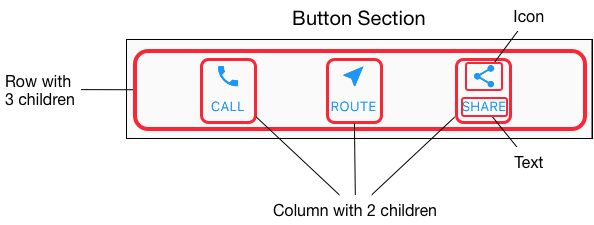
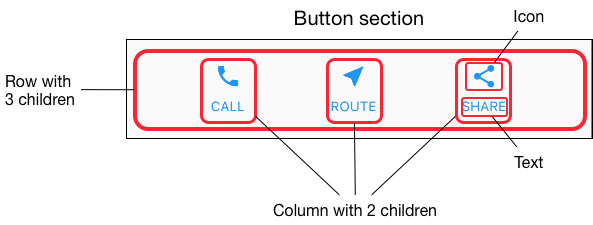
Incorporating copy edits into the tutorials. (#474)

diff --git a/tutorials/layout/index.md b/tutorials/layout/index.md
@@ -15,19 +15,15 @@ permalink: /tutorials/layout/
 
 </div>
 
-## Introduction
-
 This is a guide to building layouts in Flutter.
-You'll dive in and build the layout for the following screenshot:
+You'll build the layout for the following screenshot:
 
-<img src="images/lakes.jpg" style="border:1px solid black" alt="finished lakes app that we'll build in 'Building a Layout'">
+<img src="images/lakes.jpg" style="border:1px solid black" alt="finished lakes app that you'll build in 'Building a Layout'">
 
-We'll then take a step back to explain Flutter's approach to layout,
-and show you how to place a single widget on the screen.
-Finally, we'll discuss how to lay widgets out horizontally and vertically,
-and then cover some of the most common layout widgets.
-
-### Contents
+This guide then takes a step back to explain Flutter's approach to layout,
+and shows how to place a single widget on the screen.
+After a discussion of how to lay widgets out horizontally and vertically,
+some of the most common layout widgets are covered.
 
 * [Building a layout](#building)
   * [Step 0: Set up](#step-0)
@@ -54,38 +50,26 @@ and then cover some of the most common layout widgets.
 
 This section walks you through the layout for the following screenshot:
 
-<img src="images/lakes.jpg" style="border:1px solid black" alt="A screenshot of the lakes app that we will build in this section">
+<img src="images/lakes.jpg" style="border:1px solid black" alt="A screenshot of the lakes app that you will build in this section">
 
 If you want a "big picture" understanding of the layout mechanism,
 start with [Flutter's approach to layout](#approach).
 
-### Contents
-
-* [Step 0: Set up](#step-0)
-* [Step 1: Diagram the layout](#step-1)
-* [Step 2: Implement the title row](#step-2)
-* [Step 3: Implement the button row](#step-3)
-* [Step 4: Implement the text section](#step-4)
-* [Step 5: Implement the image section](#step-5)
-* [Step 6: Put it together](#step-6)
-
 <a name="step-0"></a>
 ### Step 0: Set up
 
-Prepare for this section as follows:
+First, get the code:
 
 * Make sure you've [set up](/setup/) your environment.
-* [Create a basic flutter
+* [Create a basic Flutter
   app](/getting-started/#creating-your-first-flutter-app).
-  You'll update the Dart code in `lib/main.dart`.
 
-Add the image to the example:
+Next, add the image to the example:
 
 * Create an `images` directory at the top of the project.
 * Add
  [`lake.jpg`](https://github.com/flutter/website/blob/master/_includes/_code/lakes/images/lake.jpg).
-  Note that `wget` won't work for saving this binary file,
-  so use another approach.
+  (Note that `wget` doesn't work for saving this binary file.)
 * Update the
   [`pubspec.yaml`](https://raw.githubusercontent.com/flutter/website/master/_includes/_code/lakes/pubspec.yaml)
   file to include an `assets` tag. This makes the image available to your code.
@@ -99,8 +83,8 @@ The first step is to break the layout down to its basic elements:
 
 * Identify the rows and columns.
 * Does the layout include a grid?
-* Overlapping elements?
-* Tabs?
+* Are there overlapping elements?
+* Does the UI need tabs?
 * Notice areas that require alignment, padding, or borders.
 
 First, identify the larger elements. In this example, four elements are
@@ -108,39 +92,40 @@ arranged into a column: an image, two rows, and a block of text.
 
 <img src="images/lakes-diagram.png" alt="diagramming the rows in the lakes screenshot">
 
-Next, diagram each row. The first row, which we call the "Title
-Section", has 3 children: 1) a column of text, 2) a star icon,
-and 3) a number. Its first child, the column, contains 2 lines of text.
+Next, diagram each row. The first row, called the Title
+section, has 3 children: a column of text, a star icon,
+and a number. Its first child, the column, contains 2 lines of text.
 That first column takes a lot of space, so it must be wrapped in an
 Expanded widget.
 
-<img src="images/title-section-diagram.png" alt="diagramming the widgets in the title section">
+<img src="images/title-section-diagram.png" alt="diagramming the widgets in the Title section">
 
-The second row, which we call the "Button Section", also has
-3 children&mdash;each child is a column that contains an icon and text.
+The second row, called the Button section, also has
+3 children: each child is a column that contains an icon and text.
 
 <img src="images/button-section-diagram.png" alt="diagramming the widgets in the button section">
 
-Once the layout has been diagrammed, it's easiest to take a bottom up
-approach to implementing it. In order to minimize the visual
+Once the layout has been diagrammed, it's easiest to take a bottom-up
+approach to implementing it. To minimize the visual
 confusion of deeply nested layout code, place some of the implementation
 in variables and functions.
 
 <a name="step-2"></a>
 ### Step 2: Implement the title row
 
-First, let's build the left column in the title section. The Column is
-placed inside an Expanded widget to stretch it to use all remaining free
+First, you'll build the left column in the title section. Putting Column
+inside an Expanded widget stretches the column to use all remaining free
 space in the row. Setting the `crossAxisAlignment` property to
 `CrossAxisAlignment.start` positions the column to the beginning of the row.
 
-The first row of text is placed inside a Container to add padding and the
-text is styled to use a bold font weight. The second child in the Column,
-also text, is painted in grey.
+Putting the first row of text inside a Container enables adding padding.
+The second child in the Column, also text, displays as grey.
 
 The last two items in the title row are a star icon, painted red,
-and the text, '41'. The entire row is placed in a Container and padded
+and the text "41". Place the entire row in a Container and pad
 along each edge with 32 pixels.
+
+Here's the code that implements the title row.
 
 <aside class="alert alert-info" markdown="1">
 **Note:**
@@ -198,7 +183,7 @@ class MyApp extends StatelessWidget {
 When pasting code into your app, indentation can
 become skewed. You can fix this in IntelliJ by right-clicking the
 Dart code and selecting **Reformat with Dart Style**.
-Reformat the code at the command line using
+Or, at the command line, you can use
 [dartfmt](https://github.com/dart-lang/dart_style).
 </aside>
 
@@ -206,8 +191,9 @@ Reformat the code at the command line using
 <i class="fa fa-lightbulb-o"> </i> **Tip:**
 For a faster development experience, try Flutter's hot reload feature.
 Hot reload allows you to modify your code and see the changes without
-fully restarting the app. The [Flutter plugin for IntelliJ](/intellij-ide/) supports
-hot reload, or you can trigger it when running apps from the command line.
+fully restarting the app. The
+[Flutter plugin for IntelliJ](/intellij-ide/) supports
+hot reload, or you can trigger from the command line.
 For more information, see [Hot Reloads vs. Full Application
 Restarts](https://flutter.io/intellij-ide/#hot-reloads-vs-full-application-restarts).
 </aside>
@@ -218,7 +204,7 @@ Restarts](https://flutter.io/intellij-ide/#hot-reloads-vs-full-application-resta
 The button section contains 3 columns that use the same layout&mdash;an
 icon over a row of text. The columns in this row are evenly spaced,
 and the text and icons are painted with the primary color,
-which was set to blue in the app's `build` method:
+which is set to blue in the app's `build()` method:
 
 <!-- _code/lakes/main.dart -->
 <!-- skip -->
@@ -239,8 +225,8 @@ class MyApp extends StatelessWidget {
 {% endprettify %}
 
 Since the code for building each row would be almost identical,
-it's most efficient to create a nested function, such as `buildButtonColumn`,
-that takes an Icon and Text, and returns a column with its widgets
+it's most efficient to create a nested function, such as `buildButtonColumn()`,
+which takes an Icon and Text, and returns a column with its widgets
 painted in the primary color.
 
 <!-- _code/lakes/main.dart -->
@@ -277,13 +263,13 @@ class MyApp extends StatelessWidget {
 }
 {% endprettify %}
 
-In the build function, the icon is added directly to the column. The
-text is placed into a Container to add padding to the top of the text,
+The build function adds the icon directly to the column. Put
+text into a Container to add padding above the text,
 separating it from the icon.
 
-The row containing these columns is built by calling the function and
+Build the row containing these columns by calling the function and
 passing the [icon](https://docs.flutter.io/flutter/material/Icons-class.html)
-and text specific to that column. The columns are aligned along the
+and text specific to that column. Align the columns along the
 main axis using `MainAxisAlignment.spaceEvenly` to arrange the free
 space evenly before, between, and after each column.
 
@@ -312,8 +298,8 @@ class MyApp extends StatelessWidget {
 <a name="step-4"></a>
 ### Step 4: Implement the text section
 
-The text section is fairly wordy, so it's also defined as a variable.
-The text is placed in a Container in order to add 32 pixels of padding on
+Define the text section, which is fairly long, as a variable.
+Put the text in a Container to enable adding 32 pixels of padding along
 each edge. The `softwrap` property indicates whether the text should break
 on soft line breaks, such as periods or commas.
 
@@ -344,7 +330,7 @@ Lake Oeschinen lies at the foot of the Blüemlisalp in the Bernese Alps. Situate
 Three of the four column elements are now complete, leaving only the image.
 This image is [available
 online](https://images.unsplash.com/photo-1471115853179-bb1d604434e0?dpr=1&amp;auto=format&amp;fit=crop&amp;w=767&amp;h=583&amp;q=80&amp;cs=tinysrgb&amp;crop=)
-under the Creative Commons license, however it's large and slow to fetch.
+under the Creative Commons license, but it's large and slow to fetch.
 In [Step 0](#step-0) you included the image in the project and updated the
 [pubspec
 file,](https://raw.githubusercontent.com/flutter/website/master/_includes/_code/lakes/pubspec.yaml)
@@ -372,7 +358,7 @@ possible but cover its entire render box.
 ### Step 6: Put it together
 
 In the final step, you assemble the pieces together. The widgets are arranged
-in a ListView, rather than a Column, because it automatically scrolls
+in a ListView, rather than a Column, because the ListView automatically scrolls
 when running the app on a small device.
 
 <!-- skip -->
@@ -400,8 +386,8 @@ body: new ListView(
 **Pubspec:** [pubspec.yaml](https://raw.githubusercontent.com/flutter/website/master/_includes/_code/lakes/pubspec.yaml)
 
 That's it! When you hot reload the app, you should see the same layout
-shown in the screenshots. You can add interactivity to this layout in
-[Adding Interactivity to your Flutter App](/tutorials/interactive/).
+shown in the screenshots. You can add interactivity to this layout by following
+[Adding Interactivity to Your Flutter App](/tutorials/interactive/).
 
 <hr>
 <a name="approach"></a>
@@ -417,7 +403,7 @@ shown in the screenshots. You can add interactivity to this layout in
 
 </div>
 
-The core of Flutter's layout mechanism is widgets. In Flutter, most
+The core of Flutter's layout mechanism is widgets. In Flutter, almost
 everything is a widget&mdash;even layout models are widgets.
 The images, icons, and text that you see in a Flutter app  are all widgets.
 But things you don't see are also widgets, such as the rows, columns,
@@ -604,7 +590,7 @@ you can customize existing widgets,
 or you can build your own set of custom widgets.
 </aside>
 
-For a non-material app, you can add the Center widget to the app's `build`
+For a non-material app, you can add the Center widget to the app's `build()`
 method:
 
 <!-- _code/widgets-only/main.dart -->

diff --git a/index.md b/index.md
@@ -8,19 +8,19 @@ layout: page
 
 ## What is Flutter?
 
-Flutter is a mobile app SDK for building high-performance, high-fidelity, 
+Flutter is a mobile app SDK for building high-performance, high-fidelity,
 apps for iOS and Android, from a single codebase.
 
-The goal is to enable developers to deliver high-performance apps that feel natural 
-on different platforms. We embrace differences in scrolling behaviors, 
-typography, icons, and more. 
+The goal is to enable developers to deliver high-performance apps that feel natural
+on different platforms. We embrace differences in scrolling behaviors,
+typography, icons, and more.
 
 ![Shrine, iOS left and Android right](/images/whatisflutter/shrine_both.jpg)
 
 This is a demo app from the [Gallery](https://github.com/flutter/flutter/tree/master/examples/flutter_gallery/lib/demo),
 a collection of Flutter sample apps you can run after installing Flutter and setting
-up your environment. Shrine has high-quality scrolling images, interactive cards, 
-buttons, dropdown lists, and a shopping cart page. To look at the single codebase 
+up your environment. Shrine has high-quality scrolling images, interactive cards,
+buttons, dropdown lists, and a shopping cart page. To look at the single codebase
 for this and more examples, [visit our GitHub repository](https://github.com/flutter/flutter/tree/master/examples).
 
 No mobile development experience is required to get started. Apps are written
@@ -191,7 +191,7 @@ Next steps:
 1.  [Set up IntelliJ](/intellij-setup/) (optional).
 1.  [Get started](/getting-started/) with the development cycle in a few simple steps.
 1.  Try [Building Layouts in Flutter](/tutorials/layout/) and
-    [Adding Interactivity to your Flutter App](/tutorials/interactive/).
+    [Adding Interactivity to Your Flutter App](/tutorials/interactive/).
 1.  Follow a detailed example in [Tour of the Widget Framework](/widgets-intro/).
 
 ## Get support

diff --git a/tutorials/interactive/index.md b/tutorials/interactive/index.md
@@ -1,6 +1,6 @@
 ---
 layout: tutorial
-title: "Adding Interactivity to your Flutter App"
+title: "Adding Interactivity to Your Flutter App"
 sidebar: home_sidebar
 permalink: /tutorials/interactive/
 ---
@@ -11,14 +11,12 @@ permalink: /tutorials/interactive/
 
 * How to respond to taps.
 * How to create a custom widget.
-* The difference between a stateless and stateful widget.
+* The difference between stateless and stateful widgets.
 
 </div>
 
-## Introduction
-
 How do you modify your app to make it react to user input?
-In this tutorial, you'll add interactivity to an app contains only
+In this tutorial, you'll add interactivity to an app that contains only
 non-interactive widgets.  Specifically, you'll modify an icon to make
 it tappable.  To accomplish this, you'll create a custom stateful widget
 that manages two stateless widgets.
@@ -53,13 +51,11 @@ we showed how to create the layout for the following screenshot.
 <img src="images/lakes.jpg" style="border:1px solid black" alt="The starting Lakes app that we will modify">
 
 When the app first launches, the star is solid red, indicating that this lake
-has previously been favorited. The number next to the star indicates that a
-total of 41 people have favorited this lake.  After completing this tutorial,
+has previously been favorited. The number next to the star indicates that
+41 people have favorited this lake.  After completing this tutorial,
 tapping the star removes its favorited status, replacing
-the solid star with an outline, and decreasing the count. Tapping
+the solid star with an outline and decreasing the count. Tapping
 again favorites the lake, drawing a solid star and increasing the count.
-
-The following shows both states.
 
 <img src="images/favorited-not-favorited.png" alt="the custom widget you'll create">
 

diff --git a/tutorials/index.md b/tutorials/index.md
@@ -14,7 +14,7 @@ Choose from the following:
 : How to build layouts using Flutter's layout mechanism. Once you've learned
   basic principles, you'll build the layout for a sample screenshot.
 
-* [Adding Interactivity to your Flutter App](/tutorials/interactive/)
+* [Adding Interactivity to Your Flutter App](/tutorials/interactive/)
 : You'll extend the simple layout app created in "Building Layouts in Flutter"
   to make an icon tappable.  Different ways of managing a widget's
   state are also discussed.

diff --git a/widgets-intro.md b/widgets-intro.md
@@ -22,7 +22,7 @@ needed in the underlying render tree to transition from one state to the next.
 **Note:** If you would like to become better acquainted with Flutter by diving
 into some code, check out
 [Building Layouts in Flutter](/tutorials/layout/) and
-[Adding Interactivity to your Flutter App](/tutorials/interactive/).
+[Adding Interactivity to Your Flutter App](/tutorials/interactive/).
 </aside>
 
 Hello World
